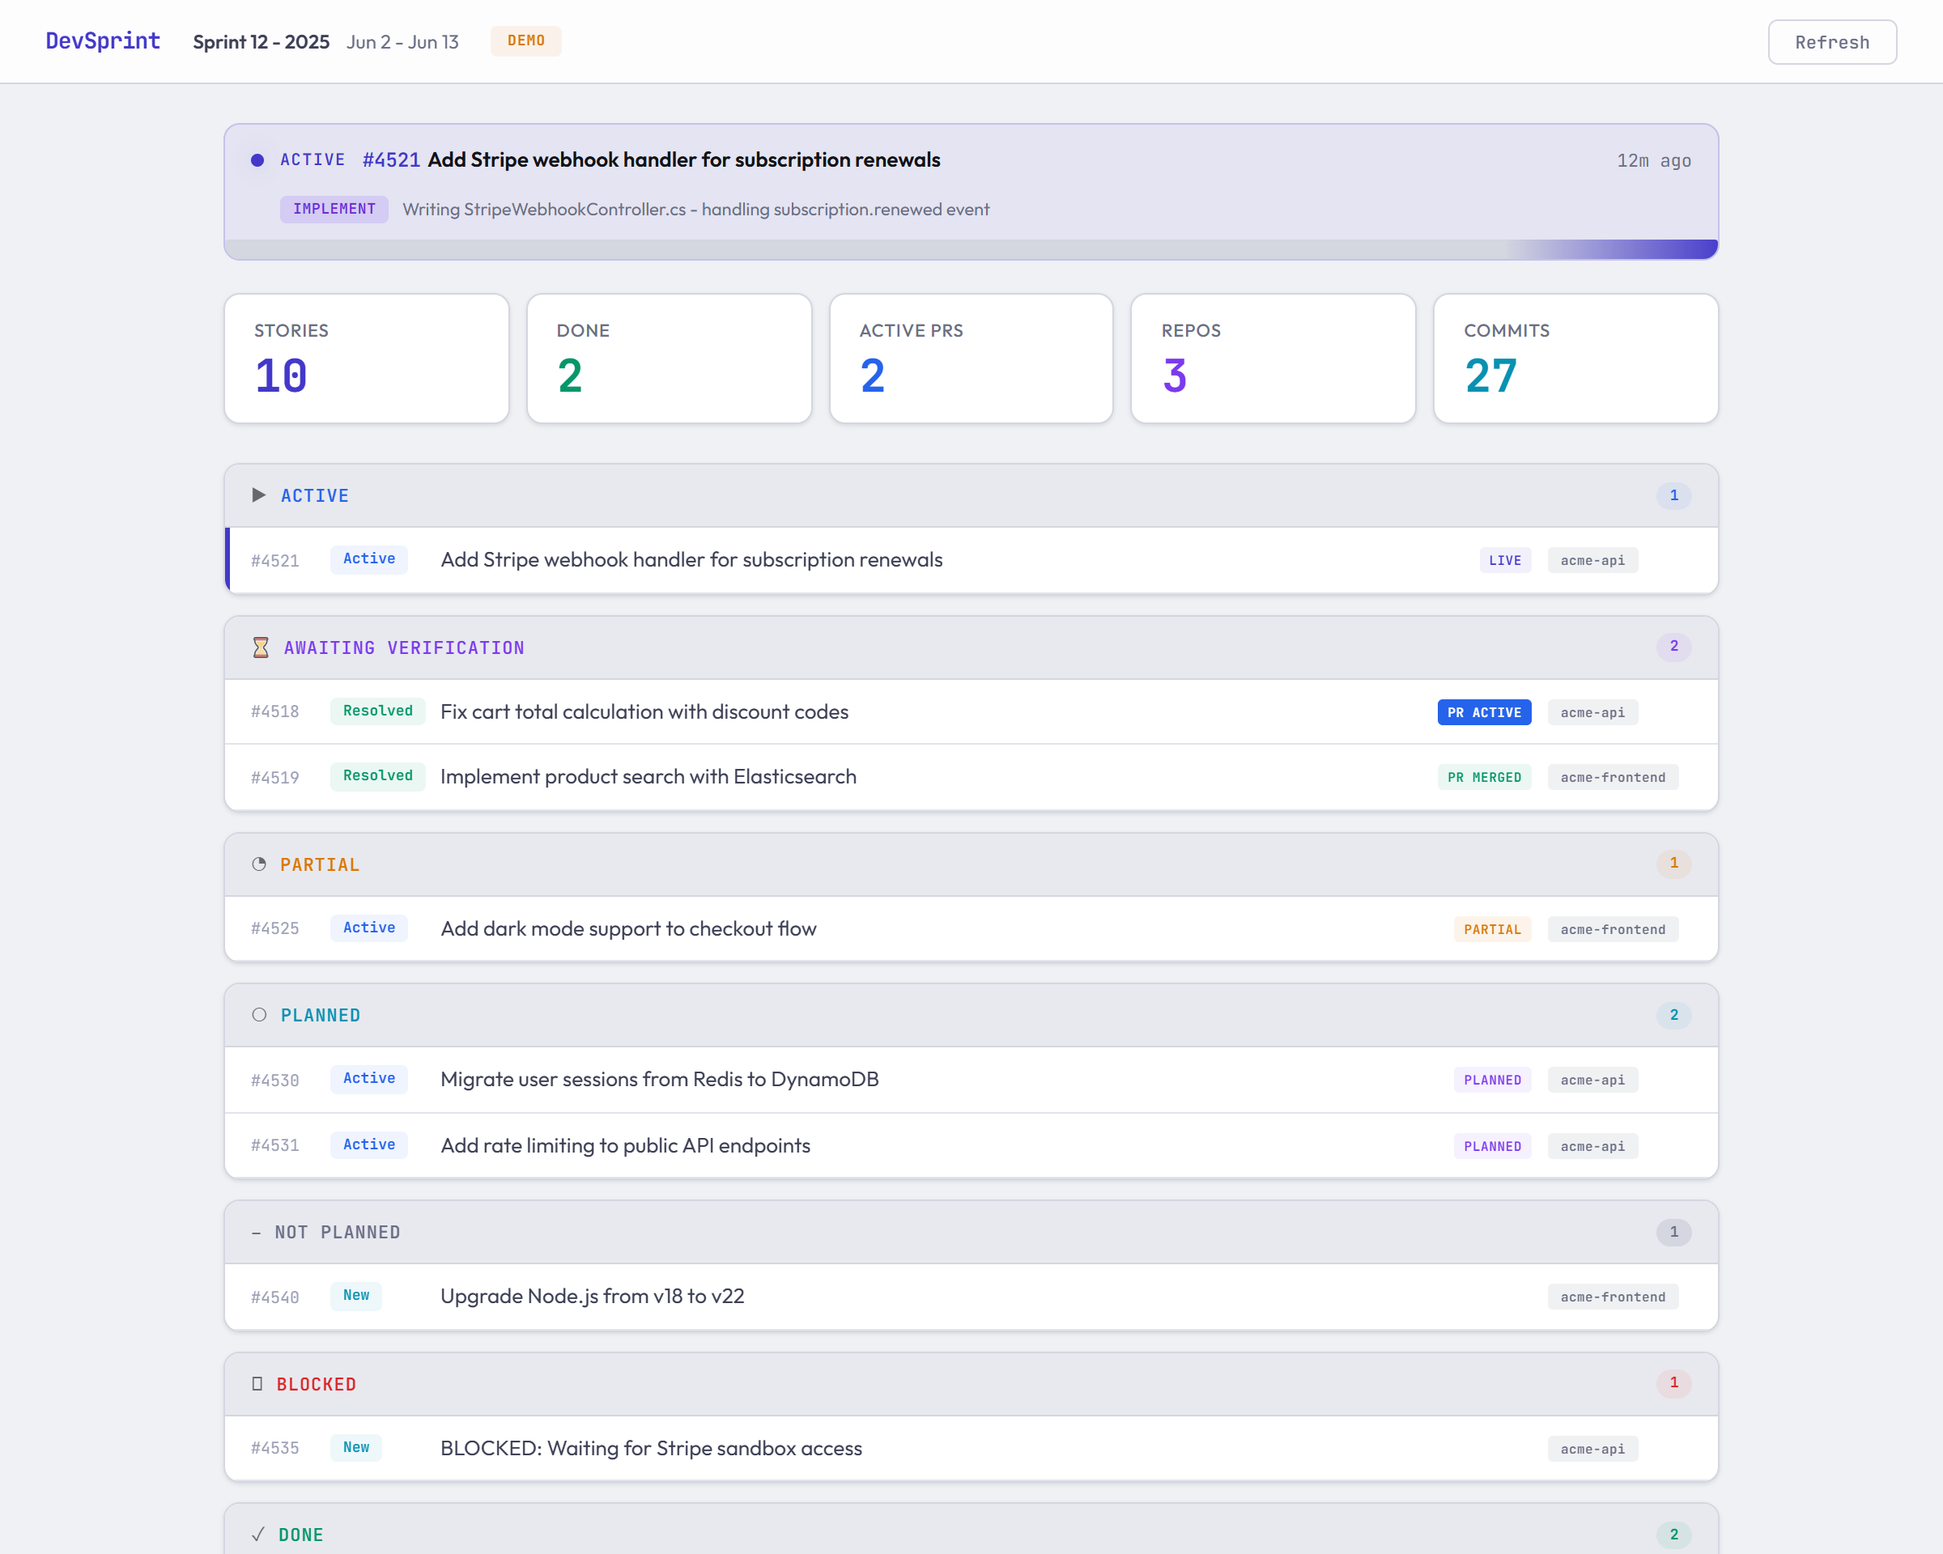
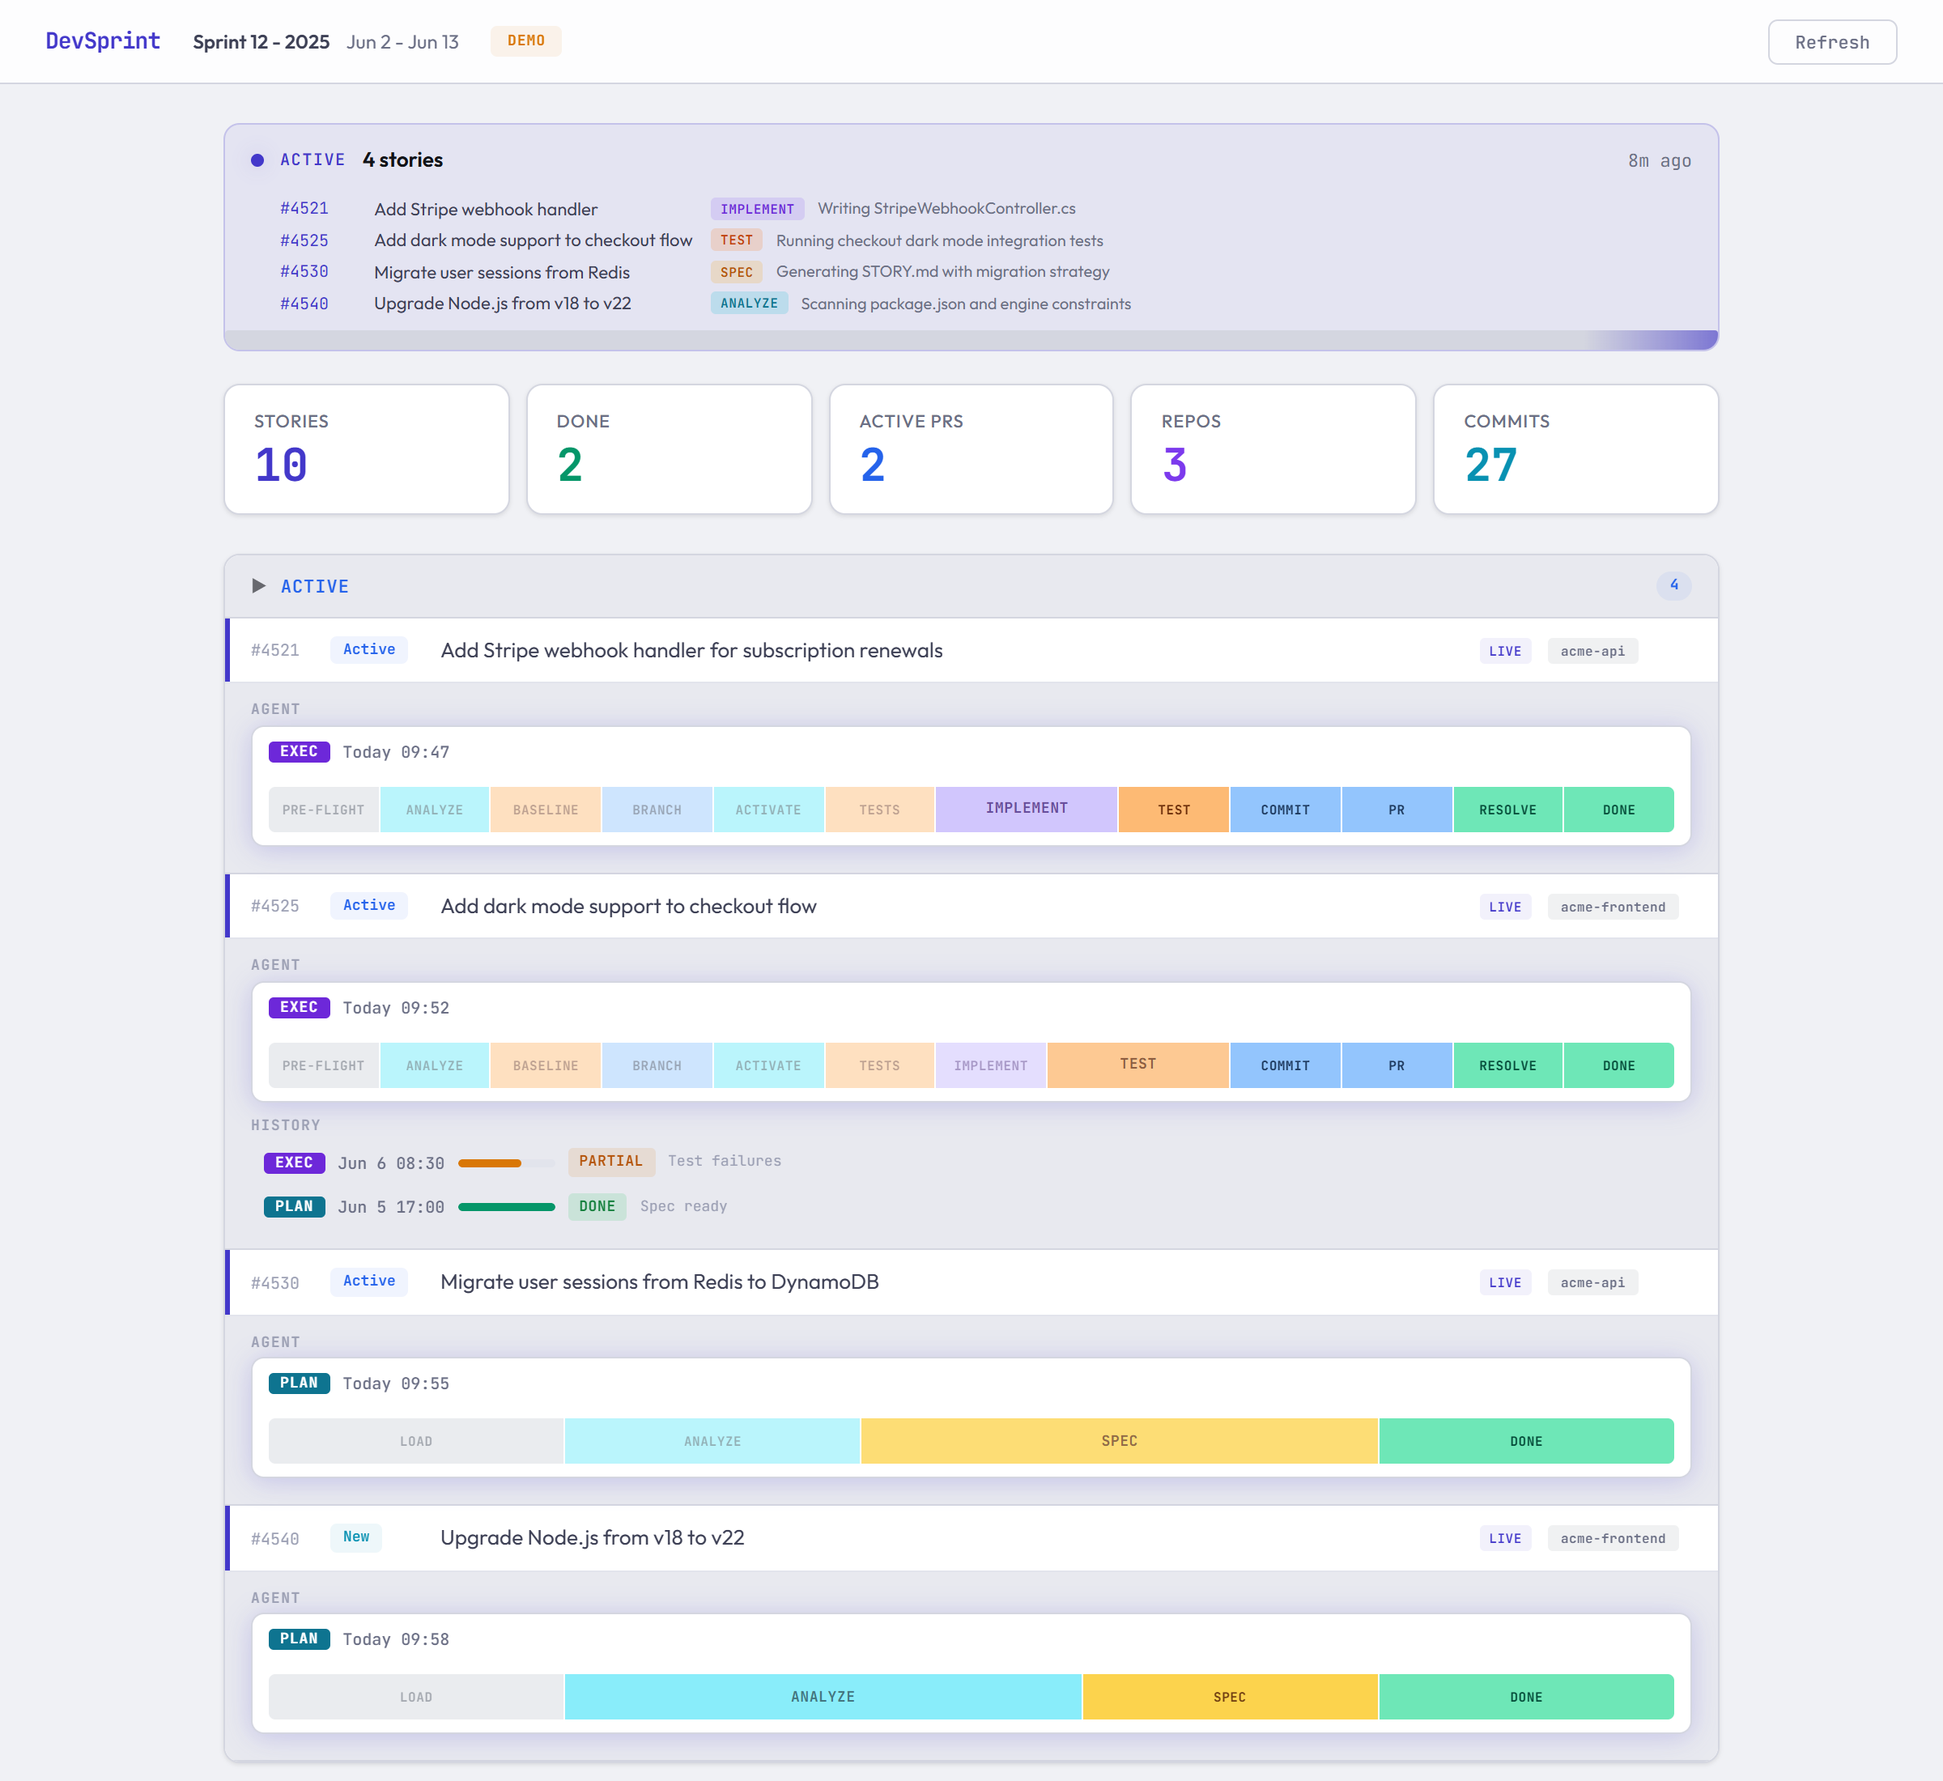
feat: show 4 parallel agents in demo (2 EXEC + 2 PLAN), expand live stories

diff --git a/docs/index.html b/docs/index.html
@@ -106,6 +106,11 @@
   .ab-progress .ab-ind { position: absolute; top: 0; left: 0; height: 100%; width: 30%; border-radius: 2px; background: linear-gradient(90deg, transparent, var(--indigo), transparent); animation: abSlide 1.8s ease-in-out infinite; }
   @keyframes abSlide { 0% { left: -30%; } 100% { left: 100%; } }
   .ab-stories { padding: 0 16px 8px 34px; display: flex; flex-direction: column; gap: 3px; }
+  .ab-srow { display: flex; align-items: center; gap: 8px; font-size: 11px; }
+  .ab-srow .id { color: var(--indigo); font-family: var(--mono); font-size: 10px; min-width: 50px; }
+  .ab-srow .name { color: var(--text2); flex: 1; overflow: hidden; text-overflow: ellipsis; white-space: nowrap; max-width: 200px; }
+  .ab-srow .ab-sstep { font-family: var(--mono); font-size: 8px; font-weight: 600; padding: 1px 6px; border-radius: 3px; text-transform: uppercase; letter-spacing: 0.3px; }
+  .ab-srow .ab-sdesc { color: var(--dim); font-size: 10px; overflow: hidden; text-overflow: ellipsis; white-space: nowrap; flex: 1; }
 
   .st-load { background: rgba(107,114,128,0.15); color: #4b5563; }
   .st-analyze { background: rgba(6,182,212,0.18); color: #0e7490; }
@@ -462,21 +467,41 @@
 </div>
 
 <div class="shell">
-  <!-- Agent Banner - Active -->
+  <!-- Agent Banner - Active (4 stories) -->
   <div class="agent-banner" id="agent-banner">
     <div class="ab-main">
       <div class="ab-pulse"></div>
       <span class="ab-label">ACTIVE</span>
-      <span class="ab-story"><span class="id">#4521</span>Add Stripe webhook handler for subscription renewals</span>
-      <span class="ab-time">12m ago</span>
+      <span class="ab-story">4 stories</span>
+      <span class="ab-time">8m ago</span>
     </div>
-    <div id="ab-extra">
-      <div class="ab-detail">
-        <span class="ab-step st-work">Implement</span>
-        <span class="ab-desc">Writing StripeWebhookController.cs - handling subscription.renewed event</span>
+    <div class="ab-stories">
+      <div class="ab-srow">
+        <span class="id">#4521</span>
+        <span class="name">Add Stripe webhook handler</span>
+        <span class="ab-sstep st-work">Implement</span>
+        <span class="ab-sdesc">Writing StripeWebhookController.cs</span>
       </div>
-      <div class="ab-progress"><div class="ab-ind"></div></div>
+      <div class="ab-srow">
+        <span class="id">#4525</span>
+        <span class="name">Add dark mode support to checkout flow</span>
+        <span class="ab-sstep st-test">Test</span>
+        <span class="ab-sdesc">Running checkout dark mode integration tests</span>
+      </div>
+      <div class="ab-srow">
+        <span class="id">#4530</span>
+        <span class="name">Migrate user sessions from Redis</span>
+        <span class="ab-sstep st-spec">Spec</span>
+        <span class="ab-sdesc">Generating STORY.md with migration strategy</span>
+      </div>
+      <div class="ab-srow">
+        <span class="id">#4540</span>
+        <span class="name">Upgrade Node.js from v18 to v22</span>
+        <span class="ab-sstep st-analyze">Analyze</span>
+        <span class="ab-sdesc">Scanning package.json and engine constraints</span>
+      </div>
     </div>
+    <div class="ab-progress"><div class="ab-ind"></div></div>
   </div>
 
   <!-- Stats -->
@@ -491,12 +516,12 @@
   <!-- Main Content -->
   <div id="main">
 
-    <!-- === Active === -->
+    <!-- === Active (2 EXEC + 2 PLAN) === -->
     <div class="repo-card">
       <div class="status-header sg-active">
         <span class="status-icon">&#9654;</span>
         <span class="status-label">Active</span>
-        <span class="status-count">1</span>
+        <span class="status-count">4</span>
       </div>
       <div class="story-grid">
         <div class="story-row story-live" onclick="toggleDetail(this)">
@@ -506,7 +531,7 @@
           <div class="s-indicators"><span class="ind ind-live">Live</span></div>
           <span class="s-repo"><span class="s-repo-tag">acme-api</span></span>
         </div>
-        <div class="story-detail" id="detail-4521" style="display:none">
+        <div class="story-detail" id="detail-4521">
           <div class="detail-sec">
             <div class="detail-label">Agent</div>
             <div class="hist-row hist-live">
@@ -525,6 +550,100 @@
                 <div class="hist-seg st-devops"><span>Commit</span></div>
                 <div class="hist-seg st-devops"><span>PR</span></div>
                 <div class="hist-seg st-done"><span>Resolve</span></div>
+                <div class="hist-seg st-done"><span>Done</span></div>
+              </div>
+            </div>
+          </div>
+        </div>
+        <div class="story-row story-live" onclick="toggleDetail(this)">
+          <div class="s-id">#4525</div>
+          <span class="s-state"><span class="s-state-tag st-active">Active</span></span>
+          <div class="s-title-cell"><span class="s-title">Add dark mode support to checkout flow</span></div>
+          <div class="s-indicators"><span class="ind ind-live">Live</span></div>
+          <span class="s-repo"><span class="s-repo-tag">acme-frontend</span></span>
+        </div>
+        <div class="story-detail" id="detail-4525">
+          <div class="detail-sec">
+            <div class="detail-label">Agent</div>
+            <div class="hist-row hist-live">
+              <span class="hist-type ht-exec">EXEC</span>
+              <span class="hist-ts">Today 09:52</span>
+              <span class="hist-spacer"></span>
+              <div class="hist-track">
+                <div class="hist-seg st-load hp-prev"><span>Pre-flight</span></div>
+                <div class="hist-seg st-analyze hp-prev"><span>Analyze</span></div>
+                <div class="hist-seg st-test hp-prev"><span>Baseline</span></div>
+                <div class="hist-seg st-devops hp-prev"><span>Branch</span></div>
+                <div class="hist-seg st-analyze hp-prev"><span>Activate</span></div>
+                <div class="hist-seg st-test hp-prev"><span>Tests</span></div>
+                <div class="hist-seg st-work hp-prev"><span>Implement</span></div>
+                <div class="hist-seg st-test hp-current"><span>Test</span></div>
+                <div class="hist-seg st-devops"><span>Commit</span></div>
+                <div class="hist-seg st-devops"><span>PR</span></div>
+                <div class="hist-seg st-done"><span>Resolve</span></div>
+                <div class="hist-seg st-done"><span>Done</span></div>
+              </div>
+            </div>
+          </div>
+          <div class="detail-sec">
+            <div class="detail-label">History</div>
+            <div class="hist-row">
+              <span class="hist-type ht-exec">EXEC</span>
+              <span class="hist-ts">Jun 6 08:30</span>
+              <div class="hist-bar"><div class="hist-bar-fill hb-warn" style="width:65%"></div></div>
+              <span class="hist-result hr-warn">Partial</span>
+              <span class="hist-laststep">Test failures</span>
+            </div>
+            <div class="hist-row">
+              <span class="hist-type ht-plan">PLAN</span>
+              <span class="hist-ts">Jun 5 17:00</span>
+              <div class="hist-bar"><div class="hist-bar-fill hb-ok" style="width:100%"></div></div>
+              <span class="hist-result hr-ok">Done</span>
+              <span class="hist-laststep">Spec ready</span>
+            </div>
+          </div>
+        </div>
+        <div class="story-row story-live" onclick="toggleDetail(this)">
+          <div class="s-id">#4530</div>
+          <span class="s-state"><span class="s-state-tag st-active">Active</span></span>
+          <div class="s-title-cell"><span class="s-title">Migrate user sessions from Redis to DynamoDB</span></div>
+          <div class="s-indicators"><span class="ind ind-live">Live</span></div>
+          <span class="s-repo"><span class="s-repo-tag">acme-api</span></span>
+        </div>
+        <div class="story-detail" id="detail-4530">
+          <div class="detail-sec">
+            <div class="detail-label">Agent</div>
+            <div class="hist-row hist-live">
+              <span class="hist-type ht-plan">PLAN</span>
+              <span class="hist-ts">Today 09:55</span>
+              <span class="hist-spacer"></span>
+              <div class="hist-track">
+                <div class="hist-seg st-load hp-prev"><span>Load</span></div>
+                <div class="hist-seg st-analyze hp-prev"><span>Analyze</span></div>
+                <div class="hist-seg st-spec hp-current"><span>Spec</span></div>
+                <div class="hist-seg st-done"><span>Done</span></div>
+              </div>
+            </div>
+          </div>
+        </div>
+        <div class="story-row story-live" onclick="toggleDetail(this)">
+          <div class="s-id">#4540</div>
+          <span class="s-state"><span class="s-state-tag st-new">New</span></span>
+          <div class="s-title-cell"><span class="s-title">Upgrade Node.js from v18 to v22</span></div>
+          <div class="s-indicators"><span class="ind ind-live">Live</span></div>
+          <span class="s-repo"><span class="s-repo-tag">acme-frontend</span></span>
+        </div>
+        <div class="story-detail" id="detail-4540">
+          <div class="detail-sec">
+            <div class="detail-label">Agent</div>
+            <div class="hist-row hist-live">
+              <span class="hist-type ht-plan">PLAN</span>
+              <span class="hist-ts">Today 09:58</span>
+              <span class="hist-spacer"></span>
+              <div class="hist-track">
+                <div class="hist-seg st-load hp-prev"><span>Load</span></div>
+                <div class="hist-seg st-analyze hp-current"><span>Analyze</span></div>
+                <div class="hist-seg st-spec"><span>Spec</span></div>
                 <div class="hist-seg st-done"><span>Done</span></div>
               </div>
             </div>
@@ -613,70 +732,14 @@
       </div>
     </div>
 
-    <!-- === Partial === -->
-    <div class="repo-card">
-      <div class="status-header sg-partial">
-        <span class="status-icon">&#9684;</span>
-        <span class="status-label">Partial</span>
-        <span class="status-count">1</span>
-      </div>
-      <div class="story-grid">
-        <div class="story-row" onclick="toggleDetail(this)">
-          <div class="s-id">#4525</div>
-          <span class="s-state"><span class="s-state-tag st-active">Active</span></span>
-          <div class="s-title-cell"><span class="s-title">Add dark mode support to checkout flow</span><button class="btn-plan" onclick="demoToast(event)" style="right:108px">Re-analyze</button><button class="btn-exec" onclick="demoToast(event)">Execute</button></div>
-          <div class="s-indicators"><span class="ind ind-partial">Partial</span></div>
-          <span class="s-repo"><span class="s-repo-tag">acme-frontend</span></span>
-        </div>
-        <div class="story-detail" id="detail-4525" style="display:none">
-          <div class="detail-sec">
-            <div class="detail-label">History</div>
-            <div class="hist-row">
-              <span class="hist-type ht-exec">EXEC</span>
-              <span class="hist-ts">Jun 6 08:30</span>
-              <div class="hist-bar"><div class="hist-bar-fill hb-warn" style="width:65%"></div></div>
-              <span class="hist-result hr-warn">Partial</span>
-              <span class="hist-laststep">Test failures</span>
-            </div>
-            <div class="hist-row">
-              <span class="hist-type ht-plan">PLAN</span>
-              <span class="hist-ts">Jun 5 17:00</span>
-              <div class="hist-bar"><div class="hist-bar-fill hb-ok" style="width:100%"></div></div>
-              <span class="hist-result hr-ok">Done</span>
-              <span class="hist-laststep">Spec ready</span>
-            </div>
-          </div>
-        </div>
-      </div>
-    </div>
-
     <!-- === Planned === -->
     <div class="repo-card">
       <div class="status-header sg-planned">
         <span class="status-icon">&#9675;</span>
         <span class="status-label">Planned</span>
-        <span class="status-count">2</span>
+        <span class="status-count">1</span>
       </div>
       <div class="story-grid">
-        <div class="story-row" onclick="toggleDetail(this)">
-          <div class="s-id">#4530</div>
-          <span class="s-state"><span class="s-state-tag st-active">Active</span></span>
-          <div class="s-title-cell"><span class="s-title">Migrate user sessions from Redis to DynamoDB</span><button class="btn-plan" onclick="demoToast(event)" style="right:108px">Re-analyze</button><button class="btn-exec" onclick="demoToast(event)">Execute</button></div>
-          <div class="s-indicators"><span class="ind ind-planned">Planned</span></div>
-          <span class="s-repo"><span class="s-repo-tag">acme-api</span></span>
-        </div>
-        <div class="story-detail" id="detail-4530" style="display:none">
-          <div class="detail-sec">
-            <div class="detail-label">History</div>
-            <div class="hist-row">
-              <span class="hist-type ht-plan">PLAN</span>
-              <span class="hist-ts">Jun 4 16:10</span>
-              <div class="hist-bar"><div class="hist-bar-fill hb-ok" style="width:100%"></div></div>
-              <span class="hist-result hr-ok">Done</span>
-              <span class="hist-laststep">Spec ready</span>
-            </div>
-          </div>
-        </div>
         <div class="story-row" onclick="toggleDetail(this)">
           <div class="s-id">#4531</div>
           <span class="s-state"><span class="s-state-tag st-active">Active</span></span>
@@ -695,24 +758,6 @@
               <span class="hist-laststep">Spec ready</span>
             </div>
           </div>
-        </div>
-      </div>
-    </div>
-
-    <!-- === Not planned === -->
-    <div class="repo-card">
-      <div class="status-header sg-unplanned">
-        <span class="status-icon">&#8211;</span>
-        <span class="status-label">Not planned</span>
-        <span class="status-count">1</span>
-      </div>
-      <div class="story-grid">
-        <div class="story-row">
-          <div class="s-id">#4540</div>
-          <span class="s-state"><span class="s-state-tag st-new">New</span></span>
-          <div class="s-title-cell"><span class="s-title">Upgrade Node.js from v18 to v22</span><button class="btn-plan" onclick="demoToast(event)">Analyze</button></div>
-          <div class="s-indicators"></div>
-          <span class="s-repo"><span class="s-repo-tag">acme-frontend</span></span>
         </div>
       </div>
     </div>
